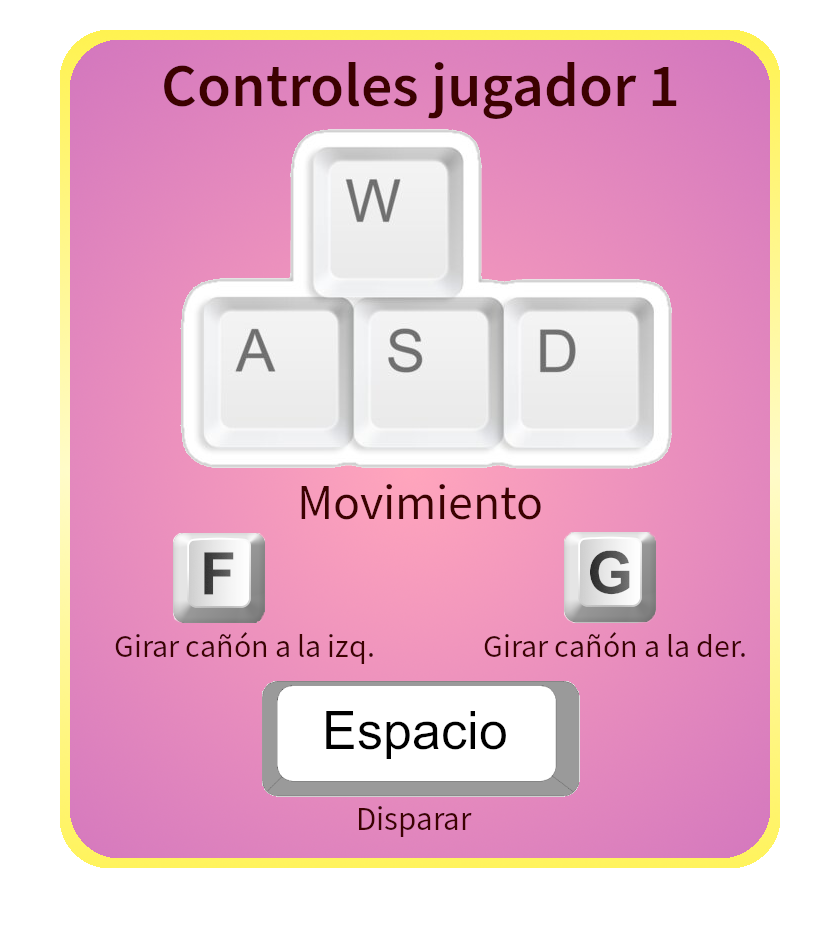
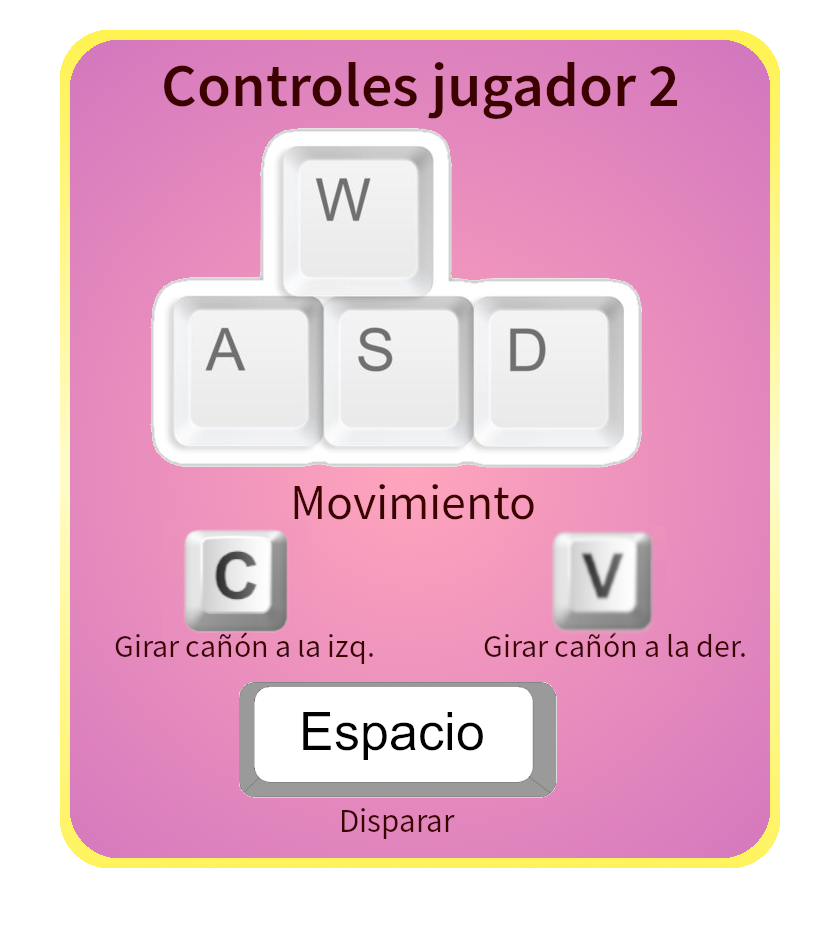
Tutorial abajo y un par de texturas

diff --git a/src/scenes/MainMenu.js b/src/scenes/MainMenu.js
@@ -18,9 +18,9 @@ class MainMenu extends Phaser.Scene {
     let findGameButton = this.add.image(
       this.game.renderer.width / 2,
       (this.game.renderer.height * 3) / 5,
-      "platform"
+      "play"
     );
-
+      findGameButton.setScale(0.3);
     findGameButton.setInteractive();
 
     //efectos al pasar el raton por encima
@@ -38,15 +38,15 @@ class MainMenu extends Phaser.Scene {
       this.scene.start("CharacterSelection", { player2Turn, p1Char });
     });
 
-    //Boton de buscar partida
+    //Boton de ver creditos
     let credits = this.add.image(
       this.game.renderer.width / 2,
       (this.game.renderer.height * 3.5) / 5,
       "platform"
     );
     credits.scale = 0.5;
-
     credits.setInteractive();
+
     //efectos al pasar el raton por encima
     credits.on("pointerover", () => {
       credits.setTint(0x00a0af);
@@ -60,12 +60,12 @@ class MainMenu extends Phaser.Scene {
 
     //Boton de configuracion
     let configButton = this.add.image(
-      (this.game.renderer.width * 1.2) / 10,
-      (this.game.renderer.height * 8.5) / 10,
+      (this.game.renderer.width * 0.8) / 10,
+      (this.game.renderer.height * 9) / 10,
       "Button_Config"
     );
 
-    configButton.setScale(0.3);
+    configButton.setScale(0.25);
 
     configButton.setInteractive();
     //efectos al pasar el raton por encima

diff --git a/src/index.html b/src/index.html
@@ -26,9 +26,29 @@
         width: 1128px;
         height: 50px;
       }
+      #controles{
+        background-color: #FFCA7A; 
+        border: 5px solid #5b020059; 
+        border-radius: 8px; 
+        width: 1138px;
+        margin: 0 auto;  
+        display: table; 
+      }
       #titulo img{    
         margin-top: -1.8%;
         width: 15%;         
+      }
+      #TutJug1 img{
+        margin-top: 1%;
+        margin-left: 5%;
+        width: 45%;  
+        float: left;
+      }
+      #TutJug2 img{
+        margin-top: 1%;
+        margin-right: 5%;
+        width: 45%;  
+        float: right;
       }
       canvas{     
         border: 5px solid rgba(30, 149, 185, 0.678); 
@@ -62,4 +82,12 @@
   <script src="./scenes/CreditsScene.js"></script>
   <script src="./objects/Character.js"></script>
   <script src="main.js"></script>
+ <div id="controles">
+    <div id="TutJug1">
+      <img src="../assets/TutJug1.png">
+    </div>
+    <div id="TutJug2">
+      <img src="../assets/TutJug2.png">
+    </div>
+  </div>
 </html>

diff --git a/src/scenes/Loader.js b/src/scenes/Loader.js
@@ -46,6 +46,7 @@ class Loader extends Phaser.Scene {
     this.load.image("bomb", "../assets/bomb.png");
     this.load.image("star", "../assets/star.png");
     this.load.image("title", "../assets/TANKATS.png");
+    this.load.image("play", "../assets/text/Play.png");
 
     //Botones 
     this.load.image("Button_Back", "../assets/Botones/Button_Back.png");
